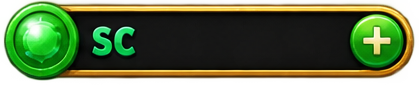
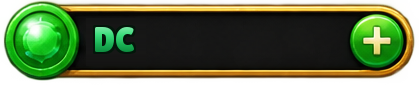
Give Fruit Spin its own look: fruit symbols on emerald green
Fruit Spin was Classic 777 with another name. Both still run on the same
reels, pays and jackpots, but a skin (SlotSkin) now dresses each one:
Fruit Spin shows grapes, strawberry, pineapple and apple for the jackpot
symbols and a diamond for the star, on an emerald table with a green reel
frame, matching its lobby art. Also repaint the balance bar to read DC
instead of SC.

Claude-Session: https://claude.ai/code/session_01V9VMsRAHN7ykGsAnxCFsP5

Changed region(s): [[0.2172, 0.3059, 0.3413, 0.6588]]

diff --git a/lib/games/gold/src/widgets/side_panels.dart b/lib/games/gold/src/widgets/side_panels.dart
@@ -1,8 +1,8 @@
 import 'package:flutter/material.dart';
 
-import '../assets.dart';
 import '../icons.dart';
 import '../math.dart';
+import '../skin.dart';
 import '../style.dart';
 import 'fx.dart';
 
@@ -41,7 +41,7 @@ class JackpotCombos extends StatelessWidget {
               Row(mainAxisSize: MainAxisSize.min, children: [
                 for (var i = 0; i < 3; i++) ...[
                   if (i > 0) const SizedBox(width: 2),
-                  Img(GoldAssets.symbol(sym), w: 44, h: 44, fit: BoxFit.contain),
+                  Img(SlotSkin.of(context).symbol(sym), w: 44, h: 44, fit: BoxFit.contain),
                 ],
               ]),
               Text(tier.name.toUpperCase(), style: jackpotLabel(tier, 26)),
@@ -77,22 +77,22 @@ class LinePays extends StatelessWidget {
   const LinePays({super.key, required this.onFullPaytable});
   final VoidCallback onFullPaytable;
 
-  Widget _row(Sym s, String pay, {bool two = false}) => Padding(
+  Widget _row(SlotSkin skin, Sym s, String pay, {bool two = false}) => Padding(
         padding: const EdgeInsets.symmetric(vertical: 3, horizontal: 8),
         child: Row(
           mainAxisAlignment: MainAxisAlignment.spaceBetween,
           children: [
             Row(mainAxisSize: MainAxisSize.min, children: [
-              Img(GoldAssets.symbol(s), w: 38, h: 38, fit: BoxFit.contain),
+              Img(skin.symbol(s), w: 38, h: 38, fit: BoxFit.contain),
               const SizedBox(width: 2),
-              Img(GoldAssets.symbol(s), w: 38, h: 38, fit: BoxFit.contain),
+              Img(skin.symbol(s), w: 38, h: 38, fit: BoxFit.contain),
               const SizedBox(width: 2),
               Visibility(
                 visible: !two,
                 maintainSize: true,
                 maintainAnimation: true,
                 maintainState: true,
-                child: Img(GoldAssets.symbol(s), w: 38, h: 38, fit: BoxFit.contain),
+                child: Img(skin.symbol(s), w: 38, h: 38, fit: BoxFit.contain),
               ),
             ]),
             Text(pay, style: lilita(26, shadows: [ts(0, 2, 0, GC.goldShadow)])),
@@ -102,9 +102,10 @@ class LinePays extends StatelessWidget {
 
   @override
   Widget build(BuildContext context) {
+    final skin = SlotSkin.of(context);
     final rows = <Widget>[
-      for (final s in linePayOrder) _row(s, '${GoldRules.linePays[s]}×'),
-      _row(Sym.cherry, '${GoldRules.twoCherryPay}×', two: true),
+      for (final s in linePayOrder) _row(skin, s, '${GoldRules.linePays[s]}×'),
+      _row(skin, Sym.cherry, '${GoldRules.twoCherryPay}×', two: true),
     ];
     return Semantics(
       label: 'Line pays',

diff --git a/lib/games/gold/gold_game.dart b/lib/games/gold/gold_game.dart
@@ -1,4 +1,4 @@
-/// Zoya7 — Gold (Classic 777) slot game module.
+/// Zoya7 — the Gold slot engine, dressed as Classic 777 or Fruit Spin ([SlotSkin]).
 ///
 /// Drop [GoldGame] into any route. It renders the 1920×1080 design and scales
 /// it to fit the screen (phone, tablet or desktop), keeping the design exact.
@@ -9,6 +9,7 @@ import 'package:flutter/material.dart';
 import 'src/assets.dart';
 import 'src/controller.dart';
 import 'src/math.dart';
+import 'src/skin.dart';
 import 'src/style.dart';
 import 'src/widgets/chat_drawer.dart';
 import 'src/widgets/footer.dart';
@@ -21,6 +22,7 @@ import 'src/widgets/win_overlay.dart';
 
 export 'src/controller.dart' show GoldAudio, GoldPanel, ChatMessage, GoldController;
 export 'src/math.dart';
+export 'src/skin.dart' show SlotSkin;
 
 class GoldGame extends StatefulWidget {
   const GoldGame({
@@ -37,7 +39,11 @@ class GoldGame extends StatefulWidget {
     this.onOpenPlayLimits,
     this.minBetIdx = 0,
     this.maxBetIdx = GoldRules.maxBetIndex,
+    this.skin = SlotSkin.classic,
   });
+
+  /// Classic 777 or Fruit Spin.
+  final SlotSkin skin;
 
   /// Bet steps offered (indexes into [GoldRules.bets]).
   final int minBetIdx;
@@ -88,7 +94,7 @@ class _GoldGameState extends State<GoldGame> {
     super.didChangeDependencies();
     if (!_precached) {
       _precached = true;
-      for (final a in GoldAssets.all) {
+      for (final a in {...GoldAssets.all, ...widget.skin.assets}) {
         precacheImage(AssetImage(a), context);
       }
     }
@@ -121,7 +127,7 @@ class _GoldGameState extends State<GoldGame> {
           cy: .48,
           rx: .72,
           ry: .62,
-          colors: const [GC.bgHot, GC.bgMid, GC.bgDeep],
+          colors: widget.skin.background,
           stops: const [0, .52, 1],
         ),
       ),
@@ -135,9 +141,12 @@ class _GoldGameState extends State<GoldGame> {
                 // the extra width of a 19.5:9 phone instead of leaving bands.
                 width: (kDesignH * box.maxWidth / box.maxHeight).clamp(kDesignW, kDesignMaxW),
                 height: kDesignH,
-                child: DefaultTextStyle(
-                  style: rubik(16),
-                  child: ListenableBuilder(listenable: c, builder: (context, _) => _canvas()),
+                child: SkinScope(
+                  skin: widget.skin,
+                  child: DefaultTextStyle(
+                    style: rubik(16),
+                    child: ListenableBuilder(listenable: c, builder: (context, _) => _canvas()),
+                  ),
                 ),
               ),
             ),

diff --git a/lib/games/gold/src/widgets/modals.dart b/lib/games/gold/src/widgets/modals.dart
@@ -1,8 +1,8 @@
 import 'package:flutter/material.dart';
 
-import '../assets.dart';
 import '../controller.dart';
 import '../math.dart';
+import '../skin.dart';
 import '../style.dart';
 import 'fx.dart';
 import 'side_panels.dart';
@@ -65,7 +65,7 @@ class PaytableModal extends StatelessWidget {
   const PaytableModal({super.key, required this.c});
   final GoldController c;
 
-  Widget _payItem(Sym s, String count, String pay) => Container(
+  Widget _payItem(SlotSkin skin, Sym s, String count, String pay) => Container(
         padding: const EdgeInsets.symmetric(vertical: 8, horizontal: 16),
         decoration: BoxDecoration(
           color: GC.a(255, 214, 120, .05),
@@ -73,7 +73,7 @@ class PaytableModal extends StatelessWidget {
           border: Border.all(color: GC.a(255, 214, 120, .15)),
         ),
         child: Row(children: [
-          Img(GoldAssets.symbol(s), w: 62, h: 62, fit: BoxFit.contain),
+          Img(skin.symbol(s), w: 62, h: 62, fit: BoxFit.contain),
           const SizedBox(width: 14),
           Text(count, style: rubik(18, color: GC.muted)),
           const Spacer(),
@@ -83,9 +83,10 @@ class PaytableModal extends StatelessWidget {
 
   @override
   Widget build(BuildContext context) {
+    final skin = SlotSkin.of(context);
     final items = [
-      for (final s in linePayOrder) _payItem(s, '×3', '${GoldRules.linePays[s]}× bet'),
-      _payItem(Sym.cherry, 'any ×2', '${GoldRules.twoCherryPay}× bet'),
+      for (final s in linePayOrder) _payItem(skin, s, '×3', '${GoldRules.linePays[s]}× bet'),
+      _payItem(skin, Sym.cherry, 'any ×2', '${GoldRules.twoCherryPay}× bet'),
     ];
     final grid = <Widget>[];
     for (var i = 0; i < items.length; i += 2) {
@@ -132,7 +133,7 @@ class PaytableModal extends StatelessWidget {
                             Row(mainAxisSize: MainAxisSize.min, children: [
                               for (var i = 0; i < 3; i++) ...[
                                 if (i > 0) const SizedBox(width: 6),
-                                Img(GoldAssets.symbol(sym), w: 70, h: 70, fit: BoxFit.contain),
+                                Img(skin.symbol(sym), w: 70, h: 70, fit: BoxFit.contain),
                               ],
                             ]),
                             Text('${tier.name.toUpperCase()} JACKPOT', style: jackpotLabel(tier, 30)),

diff --git a/lib/games/gold/src/skin.dart b/lib/games/gold/src/skin.dart
@@ -1,0 +1,59 @@
+import 'package:flutter/widgets.dart';
+
+import 'assets.dart';
+import 'math.dart';
+import 'style.dart';
+
+/// How a slot on the Gold engine looks. Classic 777 and Fruit Spin share the
+/// reels, pays and jackpots ([GoldRules]); a skin only swaps the artwork and
+/// colours, so each symbol keeps its pay.
+class SlotSkin {
+  const SlotSkin({required this.name, required this.background, this.art = const {}, this.labels = const {}, this.reelFrame});
+
+  final String name;
+
+  /// Page glow, centre to edge.
+  final List<Color> background;
+
+  /// Symbol artwork that differs from Classic 777's.
+  final Map<Sym, String> art;
+
+  /// What a symbol is called (screen readers).
+  final Map<Sym, String> labels;
+  final String? reelFrame;
+
+  String symbol(Sym s) => art[s] ?? GoldAssets.symbol(s);
+  String label(Sym s) => labels[s] ?? s.name;
+  String get frame => reelFrame ?? GoldAssets.reelFrame;
+  List<String> get assets => [for (final s in Sym.values) symbol(s), frame];
+
+  static const classic = SlotSkin(name: 'Classic 777', background: [GC.bgHot, GC.bgMid, GC.bgDeep]);
+
+  static const _fruit = 'assets/games/fruit';
+
+  /// All fruit (plus the bell and diamond of its lobby art) on emerald green.
+  static const fruit = SlotSkin(
+    name: 'Fruit Spin',
+    background: [Color(0xFF2E8B3E), Color(0xFF0E4A20), Color(0xFF03180A)],
+    reelFrame: '$_fruit/reel_frame.png',
+    art: {
+      Sym.seven: '$_fruit/sym_grapes.png',
+      Sym.diamond: '$_fruit/sym_strawberry.png',
+      Sym.crown: '$_fruit/sym_pineapple.png',
+      Sym.bar: '$_fruit/sym_apple.png',
+      Sym.star: 'assets/games/gold/sym_diamond.png',
+    },
+    labels: {Sym.seven: 'grapes', Sym.diamond: 'strawberry', Sym.crown: 'pineapple', Sym.bar: 'apple', Sym.star: 'diamond'},
+  );
+
+  /// The skin of the game being played (Classic 777 outside a game).
+  static SlotSkin of(BuildContext context) => context.dependOnInheritedWidgetOfExactType<SkinScope>()?.skin ?? classic;
+}
+
+class SkinScope extends InheritedWidget {
+  const SkinScope({super.key, required this.skin, required super.child});
+  final SlotSkin skin;
+
+  @override
+  bool updateShouldNotify(SkinScope old) => old.skin != skin;
+}

diff --git a/lib/games/gold/src/widgets/reels.dart b/lib/games/gold/src/widgets/reels.dart
@@ -3,9 +3,9 @@ import 'dart:ui' as ui;
 import 'package:flutter/material.dart';
 import 'package:flutter/scheduler.dart';
 
-import '../assets.dart';
 import '../controller.dart';
 import '../math.dart';
+import '../skin.dart';
 import '../style.dart';
 import 'fx.dart';
 
@@ -60,8 +60,8 @@ class GoldReels extends StatelessWidget {
               ),
             ),
           ),
-          const Positioned.fill(
-            child: IgnorePointer(child: Img(GoldAssets.reelFrame, w: w, h: h)),
+          Positioned.fill(
+            child: IgnorePointer(child: Img(SlotSkin.of(context).frame, w: w, h: h)),
           ),
         ]),
       ),
@@ -169,7 +169,7 @@ class _ReelColumnState extends State<ReelColumn> with TickerProviderStateMixin {
     final idle = _mode == _Mode.idle;
     final isWin = idle && widget.won && row == 1;
     final dim = idle && !widget.busy && row != 1 && row != null;
-    Widget img = Img(GoldAssets.symbol(s), w: widget.width * .88, h: 104, fit: BoxFit.contain);
+    Widget img = Img(SlotSkin.of(context).symbol(s), w: widget.width * .88, h: 104, fit: BoxFit.contain);
     if (row != null) {
       img = AnimatedScale(
         scale: isWin ? 1.08 : 1,
@@ -233,7 +233,7 @@ class _ReelColumnState extends State<ReelColumn> with TickerProviderStateMixin {
       reel = ImageFiltered(imageFilter: ui.ImageFilter.blur(sigmaX: 3, sigmaY: 3), child: reel);
     }
     return Semantics(
-      label: _mode == _Mode.idle ? widget.symbols.map((s) => s.name).join(', ') : 'Spinning',
+      label: _mode == _Mode.idle ? widget.symbols.map(SlotSkin.of(context).label).join(', ') : 'Spinning',
       child: reel,
     );
   }

diff --git a/test/gold_math_test.dart b/test/gold_math_test.dart
@@ -1,5 +1,8 @@
+import 'dart:io';
+
 import 'package:flutter_test/flutter_test.dart';
 import 'package:zoya7_gold/games/gold/src/math.dart';
+import 'package:zoya7_gold/games/gold/src/skin.dart';
 
 void main() {
   const jp = {
@@ -36,5 +39,18 @@ void main() {
   test('no match pays nothing', () {
     final o = GoldRules.evaluate(line(Sym.bell, Sym.plum, Sym.star), 5000, jp);
     expect(o.win, 0);
+  });
+
+  test('Fruit Spin shows fruit where Classic 777 shows 7, BAR, crown and star; every image exists', () {
+    for (final skin in [SlotSkin.classic, SlotSkin.fruit]) {
+      for (final a in skin.assets) {
+        expect(File(a).existsSync(), isTrue, reason: '${skin.name}: $a');
+      }
+    }
+    for (final s in [Sym.seven, Sym.bar, Sym.crown, Sym.star]) {
+      expect(SlotSkin.fruit.symbol(s), isNot(SlotSkin.classic.symbol(s)));
+    }
+    expect(SlotSkin.fruit.frame, isNot(SlotSkin.classic.frame));
+    expect(Sym.values.map(SlotSkin.fruit.symbol).toSet(), hasLength(Sym.values.length));
   });
 }

diff --git a/lib/app/screens/game.dart b/lib/app/screens/game.dart
@@ -16,7 +16,7 @@ class GoldScreen extends StatelessWidget {
     final s = AppScope.read(context);
     final cfg = s.casino.config(gameId);
     return Scaffold(
-      backgroundColor: const Color(0xFF1A0F04),
+      backgroundColor: gameId == 'fruitspin' ? const Color(0xFF03180A) : const Color(0xFF1A0F04),
       resizeToAvoidBottomInset: false,
       body: GoldGame(
         outcomes: _Recorded(gameId, s, LocalGoldMath(weights: cfg.weights)),
@@ -27,6 +27,7 @@ class GoldScreen extends StatelessWidget {
         onExitToLobby: () => Nav.back(context),
         onBuyCoins: (_) => Nav.tab(AppTab.wallet, walletTab: 'buy'),
         onOpenPlayLimits: () => Nav.push(R.settings),
+        skin: gameId == 'fruitspin' ? SlotSkin.fruit : SlotSkin.classic,
       ),
     );
   }

diff --git a/test/landscape_layout_test.dart b/test/landscape_layout_test.dart
@@ -75,6 +75,7 @@ void main() {
     'support chat': () => const ChatScreen(room: 'support'),
     'coming soon': () => const ComingSoonScreen(gameId: 'blackjack'),
     'gold game': () => const GoldScreen(),
+    'fruit spin': () => const GoldScreen(gameId: 'fruitspin'),
     'blackjack': () => const BlackjackScreen(),
   };
 
